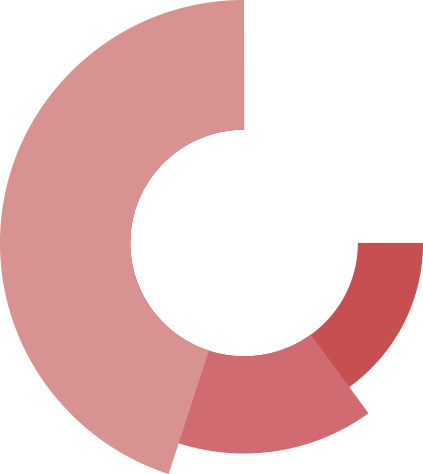
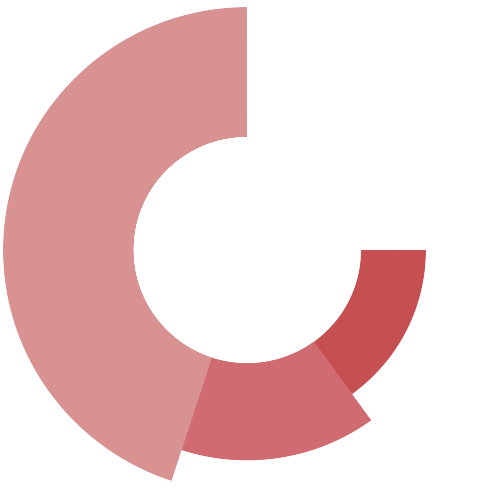
mam system

diff --git a/src/pages/platform/MAMSystem.tsx b/src/pages/platform/MAMSystem.tsx
@@ -1,14 +1,16 @@
-import { Box, Center, Flex, Image, List } from '@chakra-ui/react';
+import { Box, Center, Flex, Image, List, Stack, Text } from '@chakra-ui/react';
 import { GetStaticProps } from 'next';
 import { useTranslation } from 'next-i18next';
 import { serverSideTranslations } from 'next-i18next/serverSideTranslations';
 import { useRouter } from 'next/router';
 import React from 'react';
+import { GiReceiveMoney } from 'react-icons/gi';
 import InfoCard from '../../components/Common/InfoCard';
 import InfoTitle from '../../components/Common/InfoTitle';
 import InfoTitleSub from '../../components/Common/InfoTitleSub';
 import DownloadButton from '../../components/Platform/DownloadButton';
 import InfoList from '../../components/Platform/InfoList';
+import MAMProfitList from '../../components/Platform/MAMProfitList';
 import Wrapper from '../../components/Wrapper';
 import { Locales } from '../../i18n/locales';
 import { openChatWindow } from '../../utils';
@@ -71,14 +73,80 @@ const MAMSystem: React.FC<MAMSystemProps> = () => {
             title={t('theMAMSystemProvidesMultipleRatioSettings')}
           />
         </Box>
-        <Flex wrap="wrap" justify="center">
-          {/* <Box>
-            <Image src="../assets/images/mt4mamsystem_2.png" alt="circle" />
-            <Center>
-              <Box> </Box>
-            </Center>
-          </Box>
-          <Box></Box> */}
+        <Flex
+          direction={{ base: 'column', md: 'row' }}
+          justify="center"
+          align="center"
+        >
+          <Flex
+            backgroundImage="url('../assets/images/mt4mamsystem_2.png')"
+            bgSize="100% 100%"
+            width={{ base: '80vw', sm: '60vw', md: '500px' }}
+            height={{ base: '80vw', sm: '60vw', md: '500px' }}
+            direction="column"
+            justify="center"
+            align="center"
+          >
+            <Text color="red.600" fontSize={{ base: '2rem', md: '4rem' }}>
+              <GiReceiveMoney />
+            </Text>
+
+            <Text my={2}>{t('totalInvestment')}</Text>
+            <Text>{t('totalProfit')}</Text>
+          </Flex>
+
+          <Stack spacing={3} mt={{ base: 20, md: 0 }} ml={{ base: 0, md: 20 }}>
+            <Text>
+              {`${!isArabic ? '1.' : ''}${t(
+                'accountNetValueIsAllocatedAccordingToProportion'
+              )}${isArabic ? '.1' : ''}`}
+            </Text>
+            <Text>
+              {`${!isArabic ? '2.' : ''}${t('percentageAllocation')}${
+                isArabic ? '.2' : ''
+              }`}
+            </Text>
+            <Text>
+              {`${!isArabic ? '3.' : ''}${t(
+                'balanceIsAllocatedAccordingToProportion'
+              )}${isArabic ? '.3' : ''}`}
+            </Text>
+            <Text fontWeight="700" fontSize="22px">
+              {t('allocationByProfitAndLoss')}
+            </Text>
+            <Text>
+              {`${!isArabic ? '4.' : ''}${t('profitAndLoss')}${
+                isArabic ? '.4' : ''
+              }`}
+            </Text>
+            <Text>
+              {`${!isArabic ? '5.' : ''}${t('盈虧按結餘百分比分配')}${
+                isArabic ? '.5' : ''
+              }`}
+            </Text>
+            <Box>
+              <MAMProfitList
+                left={t('investment200')}
+                right={t('profit120')}
+                bg="#c64f51"
+                percentage="20%"
+              />
+
+              <MAMProfitList
+                left={t('investment300')}
+                right={t('profit180')}
+                bg="#d06b72"
+                percentage="30%"
+              />
+
+              <MAMProfitList
+                left={t('investment500')}
+                right={t('profit300')}
+                bg="#d89292"
+                percentage="50%"
+              />
+            </Box>
+          </Stack>
         </Flex>
       </Flex>
 

diff --git a/src/components/Platform/MAMProfitList.tsx b/src/components/Platform/MAMProfitList.tsx
@@ -1,0 +1,39 @@
+import { Box, Center, Flex } from '@chakra-ui/react';
+import React from 'react';
+import { CgArrowsExchangeAlt } from 'react-icons/cg';
+
+interface MAMProfitListProps {
+  left: string;
+  right: string;
+  bg: string;
+  percentage: string;
+}
+
+const MAMProfitList: React.FC<MAMProfitListProps> = ({
+  left,
+  right,
+  bg,
+  percentage
+}: MAMProfitListProps) => {
+  return (
+    <Flex direction={{ base: 'column', md: 'row' }} my={5}>
+      <Flex>
+        {left} <CgArrowsExchangeAlt fontSize="26px" />
+        {right}
+      </Flex>
+      <Box
+        ml={{ base: 0, md: 10 }}
+        mt={{ base: 2, md: 0 }}
+        bg={bg}
+        color="white"
+        py={1}
+        px={5}
+        borderRadius={'15px'}
+      >
+        <Center>{percentage}</Center>
+      </Box>
+    </Flex>
+  );
+};
+
+export default MAMProfitList;
